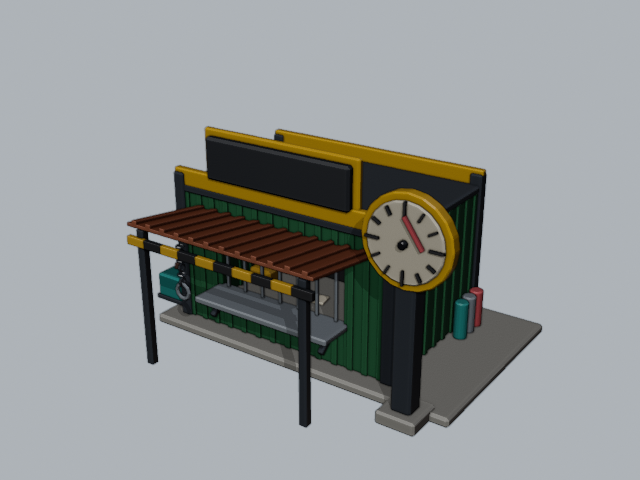
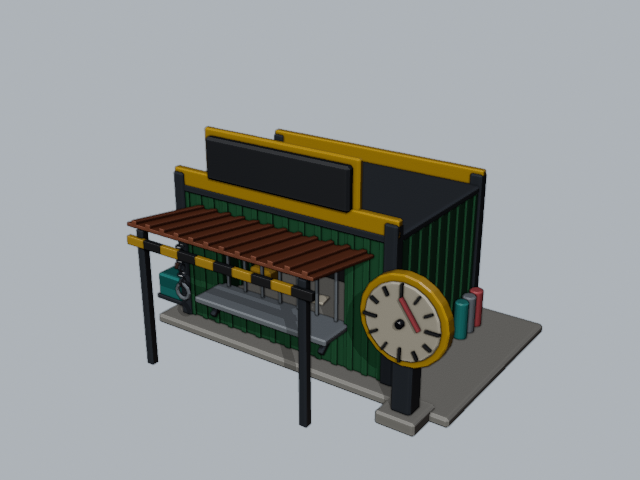
V3 B2 polish: lower Scrap Buyer dial; fountain, water tower, guard rail, sandbag wall, bollard assets

Changed region(s): [[0.5625, 0.375, 0.7188, 0.7812]]

diff --git a/tools/asset_pipeline/build_v3hero.py b/tools/asset_pipeline/build_v3hero.py
@@ -232,18 +232,20 @@ def weigh_station(c):
     box(c, "SignFrame", "Metal", "SafetyYellow", (10.8, 0.4, 3.4), pos=(0, y0 + 0.05, H + 2.6), bevel=0.1)
     for sx in (-4, 4):
         box(c, "SignFrame", "Metal", "HazardBlack", (0.3, 0.3, 2), pos=(sx, y0 + 0.3, H + 1.2), bevel=0.03)
-    # Scale tower on the counter side: a tall pylon with a big dial facing the customer.
+    # Scale post on the counter side with a big dial facing the customer. The dial sits below
+    # the roof sign (it hid the sign's end from the spawn when it stood at 10.5).
     px, py = W / 2 + 2.2, -4.0
-    box(c, "Pylon", "Metal", "Gunmetal", (1.2, 1.2, 9), pos=(px, py, 4.5), bevel=0.12)
+    DZ = 6.2  # dial centre height
+    box(c, "Pylon", "Metal", "Gunmetal", (1.2, 1.2, DZ), pos=(px, py, DZ / 2), bevel=0.12)
     box(c, "Pylon", "Concrete", "Concrete", (2.4, 2.4, 0.8), pos=(px, py, 0.4), bevel=0.12)
-    cyl(c, "Dial", "Metal", "SafetyYellow", 2.6, 0.7, pos=(px, py - 0.3, 10.5), rot=(90, 0, 0), verts=20)
-    cyl(c, "DialFace", "Smooth", "Cream", 2.2, 0.8, pos=(px, py - 0.4, 10.5), rot=(90, 0, 0), verts=20)
+    cyl(c, "Dial", "Metal", "SafetyYellow", 2.6, 0.7, pos=(px, py - 0.3, DZ), rot=(90, 0, 0), verts=20)
+    cyl(c, "DialFace", "Smooth", "Cream", 2.2, 0.8, pos=(px, py - 0.4, DZ), rot=(90, 0, 0), verts=20)
     for i in range(12):
         a = 2 * math.pi * i / 12
         box(c, "Tick", "Smooth", "HazardBlack", (0.12, 0.2, 0.5 if i % 3 else 0.8),
-            pos=(px + math.cos(a) * 1.8, py - 0.85, 10.5 + math.sin(a) * 1.8), rot=(0, -math.degrees(a) + 90, 0), bevel=0.0)
-    box(c, "Needle", "Neon", "Coral", (0.18, 0.2, 1.9), pos=(px + 0.55, py - 0.95, 11.2), rot=(0, -35, 0), bevel=0.0)
-    cyl(c, "Needle", "Metal", "HazardBlack", 0.25, 0.4, pos=(px, py - 0.95, 10.5), rot=(90, 0, 0), verts=8)
+            pos=(px + math.cos(a) * 1.8, py - 0.85, DZ + math.sin(a) * 1.8), rot=(0, -math.degrees(a) + 90, 0), bevel=0.0)
+    box(c, "Needle", "Neon", "Coral", (0.18, 0.2, 1.9), pos=(px + 0.55, py - 0.95, DZ + 0.7), rot=(0, -35, 0), bevel=0.0)
+    cyl(c, "Needle", "Metal", "HazardBlack", 0.25, 0.4, pos=(px, py - 0.95, DZ), rot=(90, 0, 0), verts=8)
     # Hanging scale hook from the canopy.
     chain(c, (-3.5, -6.6, 8.0), (-3.5, -6.6, 5.4), links=6)
     torus(c, "Hook", "Metal", "Steel", 0.45, 0.12, pos=(-3.5, -6.6, 5.0), rot=(90, 0, 0), segments=10)
@@ -516,6 +518,132 @@ def storefront_b(c):
     storefront(c, "Teal", "Cream", "Mustard", "Coral")
 
 
+
+# --------------------------------------------------------------------------- Fountain
+
+def fountain_v3(c):
+    """Town Square centrepiece. Octagonal stone basin (fits the old 14-stud gameplay cylinder),
+    a fluted pedestal, two scalloped bowls, and a bronze storm-vane finial: a cog with a
+    lightning bolt through it. A riveted iron strap holds a storm crack in the basin together.
+    ~15 across, ~12 tall."""
+    R = 7.0
+    # Octagonal basin wall: 8 stone panels with cream coping and corner posts.
+    for i in range(8):
+        a = (i + 0.5) / 8 * math.tau
+        side = 2 * R * math.tan(math.pi / 8)
+        box(c, "Basin", "Concrete", "Stone", (side + 0.2, 0.9, 1.7), pos=(math.cos(a) * R, math.sin(a) * R, 0.85),
+            rot=(0, 0, math.degrees(a) + 90), bevel=0.15)
+        box(c, "Coping", "Concrete", "Cream", (side + 0.6, 1.4, 0.4), pos=(math.cos(a) * R, math.sin(a) * R, 1.9),
+            rot=(0, 0, math.degrees(a) + 90), bevel=0.12)
+        b = i / 8 * math.tau
+        box(c, "Post", "Concrete", "Cream", (1.3, 1.3, 2.5), pos=(math.cos(b) * R * 1.03, math.sin(b) * R * 1.03, 1.25),
+            rot=(0, 0, math.degrees(b)), bevel=0.15)
+        sphere(c, "PostCap", "Concrete", "Cream", 0.5, pos=(math.cos(b) * R * 1.03, math.sin(b) * R * 1.03, 2.75))
+    cyl(c, "BasinFloor", "Concrete", "Stone", R - 0.3, 0.6, pos=(0, 0, 0.3), verts=16, bevel=0.0)
+    cyl(c, "Water", "Glass", "Glass", R - 0.5, 0.2, pos=(0, 0, 1.45), verts=16, bevel=0.0)
+    # Storm repair: an iron strap across a cracked panel, with rivets.
+    a = 2.5 / 8 * math.tau
+    box(c, "Strap", "Metal", "Gunmetal", (0.35, 1.1, 2.0), pos=(math.cos(a) * (R + 0.5), math.sin(a) * (R + 0.5), 1.0),
+        rot=(0, 0, math.degrees(a) + 90), bevel=0.05)
+    for dz in (0.4, 1.0, 1.6):
+        sphere(c, "Rivet", "Metal", "Steel", 0.13, pos=(math.cos(a) * (R + 0.7), math.sin(a) * (R + 0.7), dz))
+    # Pedestal: octagonal plinth, fluted column.
+    cyl(c, "Plinth", "Concrete", "Stone", 2.2, 1.0, pos=(0, 0, 1.6), verts=8, bevel=0.15)
+    cyl(c, "Column", "Concrete", "Cream", 1.0, 4.4, pos=(0, 0, 4.2), verts=12, bevel=0.1)
+    for i in range(8):
+        b = i / 8 * math.tau
+        box(c, "Flute", "Concrete", "Stone", (0.3, 0.3, 4.0), pos=(math.cos(b) * 1.0, math.sin(b) * 1.0, 4.2), bevel=0.04)
+    # Lower bowl, scalloped lip.
+    cyl(c, "Bowl", "Concrete", "Cream", 3.0, 1.0, pos=(0, 0, 6.6), verts=16, radius_top=3.8, bevel=0.15)
+    cyl(c, "BowlWater", "Glass", "Glass", 3.5, 0.15, pos=(0, 0, 7.05), verts=16, bevel=0.0)
+    for i in range(12):
+        b = i / 12 * math.tau
+        sphere(c, "Scallop", "Concrete", "Cream", 0.45, pos=(math.cos(b) * 3.75, math.sin(b) * 3.75, 7.0), scale=(1, 1, 0.6))
+    # Upper column and bowl.
+    cyl(c, "Column2", "Concrete", "Stone", 0.55, 2.2, pos=(0, 0, 8.2), verts=10, bevel=0.08)
+    cyl(c, "Bowl2", "Concrete", "Cream", 1.4, 0.6, pos=(0, 0, 9.5), verts=12, radius_top=1.9, bevel=0.1)
+    # Finial: bronze cog with a lightning bolt through it (the town's storm emblem).
+    cyl(c, "FinialPost", "Metal", "Teal", 0.25, 1.4, pos=(0, 0, 10.4), verts=8)
+    torus(c, "Emblem", "Metal", "Teal", 1.1, 0.22, pos=(0, 0, 12.0), rot=(90, 0, 0), segments=16)
+    for i in range(8):
+        b = i / 8 * math.tau
+        box(c, "Emblem", "Metal", "Teal", (0.4, 0.4, 0.4), pos=(math.cos(b) * 1.45, 0, 12.0 + math.sin(b) * 1.45),
+            rot=(0, -math.degrees(b), 0), bevel=0.05)
+    for (bx, bz, ang, ln) in ((0.25, 12.6, -25, 1.3), (-0.05, 11.9, 35, 1.0), (-0.3, 11.2, -25, 1.3)):
+        box(c, "Bolt", "Metal", "Mustard", (0.35, 0.3, ln), pos=(bx, -0.05, bz), rot=(0, ang, 0), bevel=0.03)
+    # Spouts on the basin's inner side (four, aimed in).
+    for i in range(4):
+        b = i / 4 * math.tau + math.pi / 4
+        cyl(c, "Spout", "Metal", "Teal", 0.25, 1.0, pos=(math.cos(b) * (R - 0.9), math.sin(b) * (R - 0.9), 2.1),
+            rot=(0, 90, math.degrees(b)), verts=8)
+
+
+# --------------------------------------------------------------------------- Props kit
+
+def sandbag_wall(c):
+    """Storm-prep sandbag wall: two staggered courses, 6 then 5 bags. 7.4 long, ~1.3 tall."""
+    for row, (n, z) in enumerate(((6, 0.33), (5, 0.95))):
+        for i in range(n):
+            x = -3.1 + i * 1.24 + row * 0.62
+            jitter(box(c, "Bag", "Fabric", "Sand" if (i + row) % 3 else "Plaster", (1.25, 0.95, 0.62),
+                       pos=(x, rng.uniform(-0.06, 0.06), z), bevel=0.26, segments=2), 4)
+            box(c, "Tie", "Fabric", "Bark", (0.12, 0.98, 0.1), pos=(x + 0.5, 0, z + 0.27), bevel=0.0)
+
+
+def water_tower(c):
+    """Town water tower for the skyline: four splayed legs with X-bracing, a round tank with a
+    conical roof, a catwalk with railing, a ladder, and a sign band. ~22 across, ~56 tall."""
+    for sx in (-1, 1):
+        for sy in (-1, 1):
+            box(c, "Leg", "Metal", "Steel", (1.0, 1.0, 36), pos=(sx * 6.8, sy * 6.8, 18), rot=(sy * 5, -sx * 5, 0), bevel=0.08)
+            box(c, "Foot", "Concrete", "Concrete", (2.6, 2.6, 1.2), pos=(sx * 8.4, sy * 8.4, 0.6), bevel=0.15)
+    # X-bracing on each face between the legs (two bays). Euler XYZ: tilt about Y, then yaw.
+    for z0 in (8, 22):
+        off = 7.1 - (z0 - 8) * 0.06  # legs lean in slightly toward the top
+        for side in range(4):
+            yaw = side * 90
+            ang = math.radians(yaw)
+            for d in (-1, 1):
+                box(c, "Brace", "Metal", "Steel", (17, 0.35, 0.35),
+                    pos=(math.sin(ang) * off, -math.cos(ang) * off, z0 + 5), rot=(0, d * 38, yaw), bevel=0.0)
+            box(c, "Strut", "Metal", "Steel", (14, 0.4, 0.4),
+                pos=(math.sin(ang) * off, -math.cos(ang) * off, z0 + 11), rot=(0, 0, yaw), bevel=0.0)
+    cyl(c, "Deck", "Plate", "Gunmetal", 10.5, 0.6, pos=(0, 0, 36.3), verts=20, bevel=0.1)
+    for i in range(20):
+        b = i / 20 * math.tau
+        box(c, "RailPost", "Metal", "Steel", (0.2, 0.2, 1.8), pos=(math.cos(b) * 10.2, math.sin(b) * 10.2, 37.5), bevel=0.0)
+    torus(c, "Rail", "Metal", "Steel", 10.2, 0.12, pos=(0, 0, 38.4), segments=24)
+    cyl(c, "Tank", "Metal", "Cream", 9, 11, pos=(0, 0, 42.1), verts=24, bevel=0.3)
+    cyl(c, "Band", "Smooth", "Coral", 9.08, 1.4, pos=(0, 0, 44.6), verts=24, bevel=0.0)
+    box(c, "Sign", "Smooth", "Signboard", (8.4, 0.6, 3.2), pos=(0, -8.95, 41.6), bevel=0.15)
+    cyl(c, "Roof", "Metal", "Coral", 9.6, 4.6, pos=(0, 0, 49.9), verts=24, radius_top=0.8, bevel=0.15)
+    cyl(c, "Cap", "Metal", "Gunmetal", 0.9, 1.4, pos=(0, 0, 52.9), verts=10)
+    sphere(c, "Beacon", "Neon", "Coral", 0.5, pos=(0, 0, 53.9))
+    box(c, "Ladder", "Metal", "SafetyYellow", (1.0, 0.3, 36), pos=(0, -7.6, 18), rot=(-5, 0, 0), bevel=0.04)
+    # Rust streaks below the band.
+    for x in (-3.5, 1.8, 5):
+        box(c, "Streak", "Rusty", "Rust", (0.5, 0.3, 3.4), pos=(x, -8.9, 38.8), bevel=0.0)
+
+
+def guard_rail(c):
+    """8-stud W-beam guard rail section with two posts and blocking. Origin at the section's
+    centre on the ground; sections butt end to end along X."""
+    for x in (-3.6, 3.6):
+        box(c, "Post", "Metal", "Gunmetal", (0.45, 0.45, 2.6), pos=(x, 0, 1.3), bevel=0.05)
+        box(c, "Block", "Metal", "Gunmetal", (0.4, 0.5, 0.7), pos=(x, -0.45, 2.0), bevel=0.04)
+    for dz, w in ((2.25, 0.32), (1.95, 0.42), (1.65, 0.32)):
+        box(c, "Beam", "Metal", "Steel", (8.1, w, 0.32), pos=(0, -0.8 - (0.08 if w > 0.4 else 0), dz), bevel=0.06)
+    for x in (-3.6, 3.6):
+        box(c, "Reflector", "Neon", "SafetyYellow", (0.25, 0.1, 0.18), pos=(x, -1.05, 1.95), bevel=0.0)
+
+
+def bollard(c):
+    """Concrete bollard with a hazard band: marks edges at the spawn pad and the plaza."""
+    cyl(c, "Body", "Concrete", "Concrete", 0.6, 2.6, pos=(0, 0, 1.3), verts=12, bevel=0.15)
+    cyl(c, "Top", "Concrete", "Concrete", 0.52, 0.4, pos=(0, 0, 2.75), verts=12, bevel=0.18)
+    cyl(c, "Band", "Smooth", "SafetyYellow", 0.63, 0.35, pos=(0, 0, 2.0), verts=12, bevel=0.0)
+    cyl(c, "Band", "Smooth", "HazardBlack", 0.63, 0.35, pos=(0, 0, 1.65), verts=12, bevel=0.0)
+
 if __name__ == "__main__":
     build_set("v3hero", [
         ("GearWorkshop", gear_workshop),
@@ -525,4 +653,9 @@ if __name__ == "__main__":
         ("ArrivalGantry", arrival_gantry),
         ("StorefrontA", storefront_a),
         ("StorefrontB", storefront_b),
+        ("FountainV3", fountain_v3),
+        ("SandbagWall", sandbag_wall),
+        ("WaterTowerV3", water_tower),
+        ("GuardRail", guard_rail),
+        ("Bollard", bollard),
     ], layout_spacing=6)
